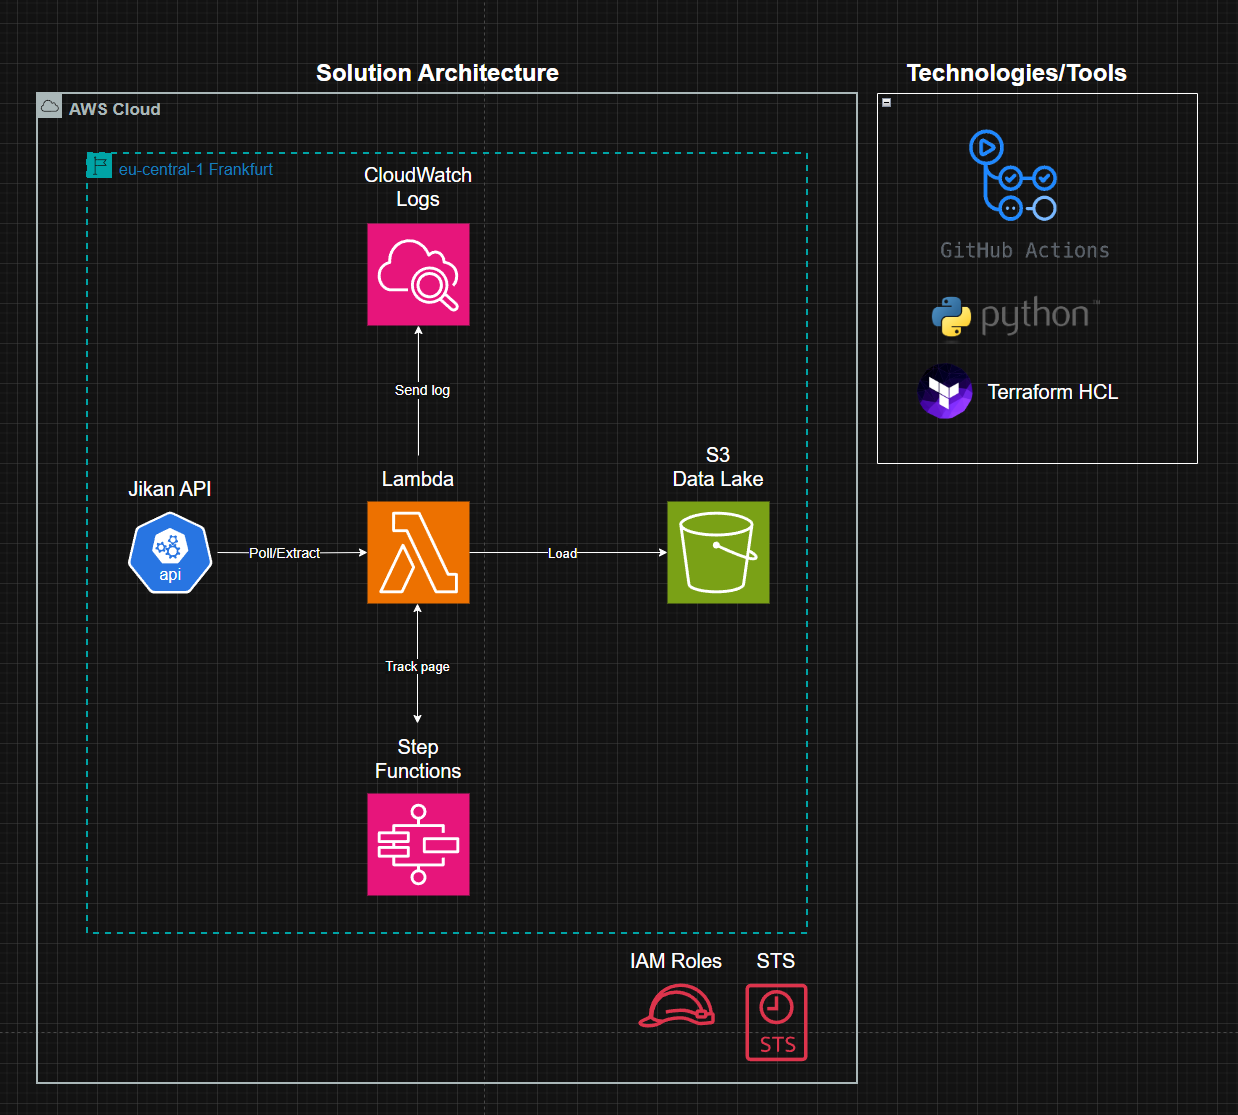
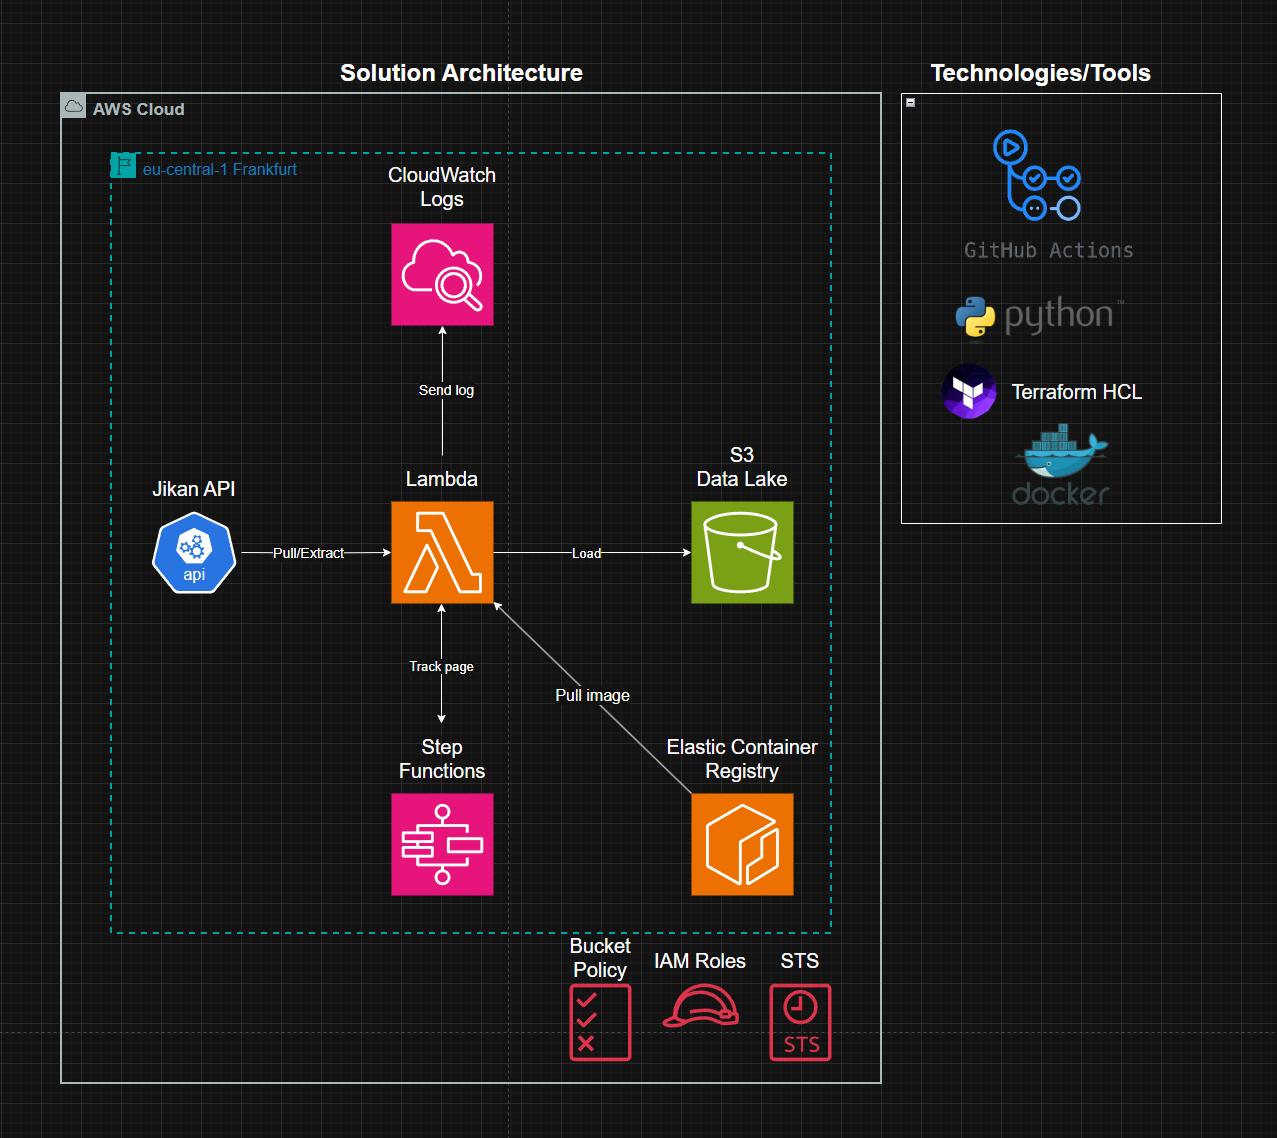
updated readme

diff --git a/README.md b/README.md
@@ -4,7 +4,14 @@
 # Anime Analytics
 
 ## This is a ETL pipeline for extracting, and doing some light data manipulation, then loading it to a data lake.
-This project is an automated ETL pipeline that will take semi-structured data from an API called jikan, and extract and load it into a data lake in the AWS Cloud (Amazon S3), then transform it using pandas and load it to snowflake for analytics
+This project is an automated ETL pipeline that will take semi-structured data from an API called jikan, and extract and load it into a data lake in the AWS Cloud (Amazon S3), then transform it using pandas and load it to snowflake for analytics </br>
+**Part 1** </br>
+API -> Lambda -> S3
+</br>
+</br>
+**Part 2**</br>
+S3 -> Glue -> Snowflake
+
 
 </br>
 
@@ -20,7 +27,8 @@ For this project I have leveraged AWS Cloud where I host my infrastructure so if
 3. [Installation](#installation)
 4. [Solution Architecture](#solution-architecture)
 5. [Orchestration](#orchestration)
-6. [Contact](#contact)
+6. [Application](#application)
+7. [Contact](#contact)
 
 
 </br>
@@ -76,6 +84,7 @@ Here, the module with source is in the lambda_extract.tf and the value are passe
 - Terrafrom HCL `(version: 1.9.5)`
 - Python        `(version: 3.13.2)`
 - AWS CLI       `(version: 2.24.20)`
+- Docker CLI    `(version: 28.0.4)`
 - Git           `(version: 2.48.1)` *make sure to create an ssh-key in order to be able to clone the repository securely via the shell*
 - CI/CD pipeline *i chose GitHub Actions but there are so many more, the only important part is to really understand the operating system of choice*
 
@@ -110,9 +119,15 @@ pip install -r dev_requirements.txt
 
 ![step functions workflow](images/step-functions-workflow.png)
 </br>
-*this is my AWS Step functions Orchestration workflow defined in json, but as you cann see it is vizualized from AWS Console*
+*this is my AWS Step functions Orchestration workflow defined in json, but as you can see it is vizualized from AWS Console*
 </br>
 </br>
+
+
+## Application
+The baseline is that I am leveraging a linear way of programming also known as a Procedural Paradigm. </br>
+Application is concluded of one main/initialazer function called `lambda_handler` in `transform_anime_data.py` to start the data trsnformation. The entire `./script` directory has all python codebase for docker to create an image of. Docker copies and installs the `requirements.txt` in the same directory `Dockerfile` is in.
+
 
 ## Contact
 For questions about the project, feel free to contact me on **lamochi02@gmail.com**.
